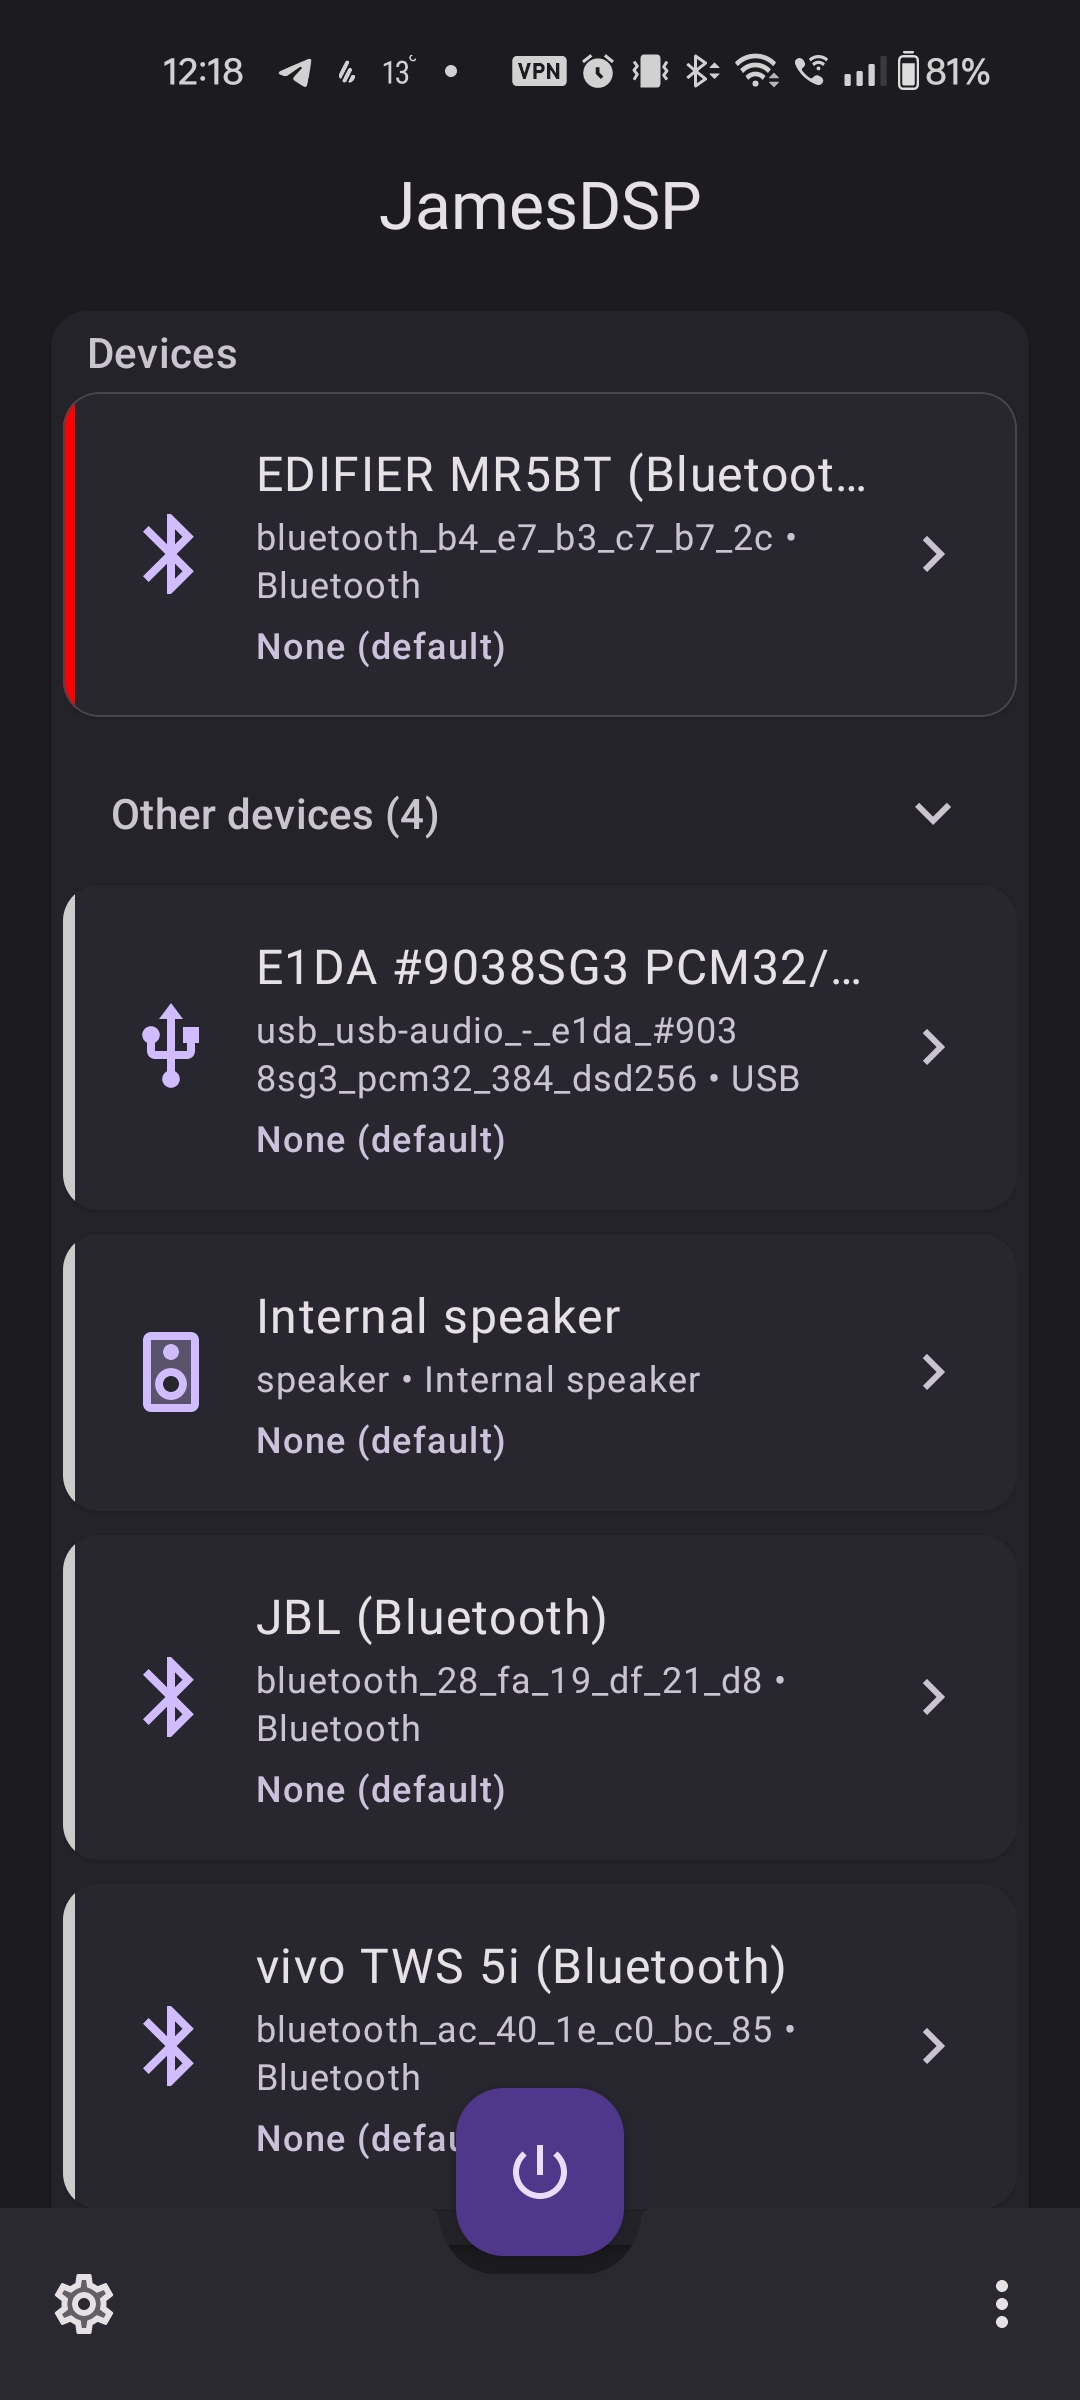
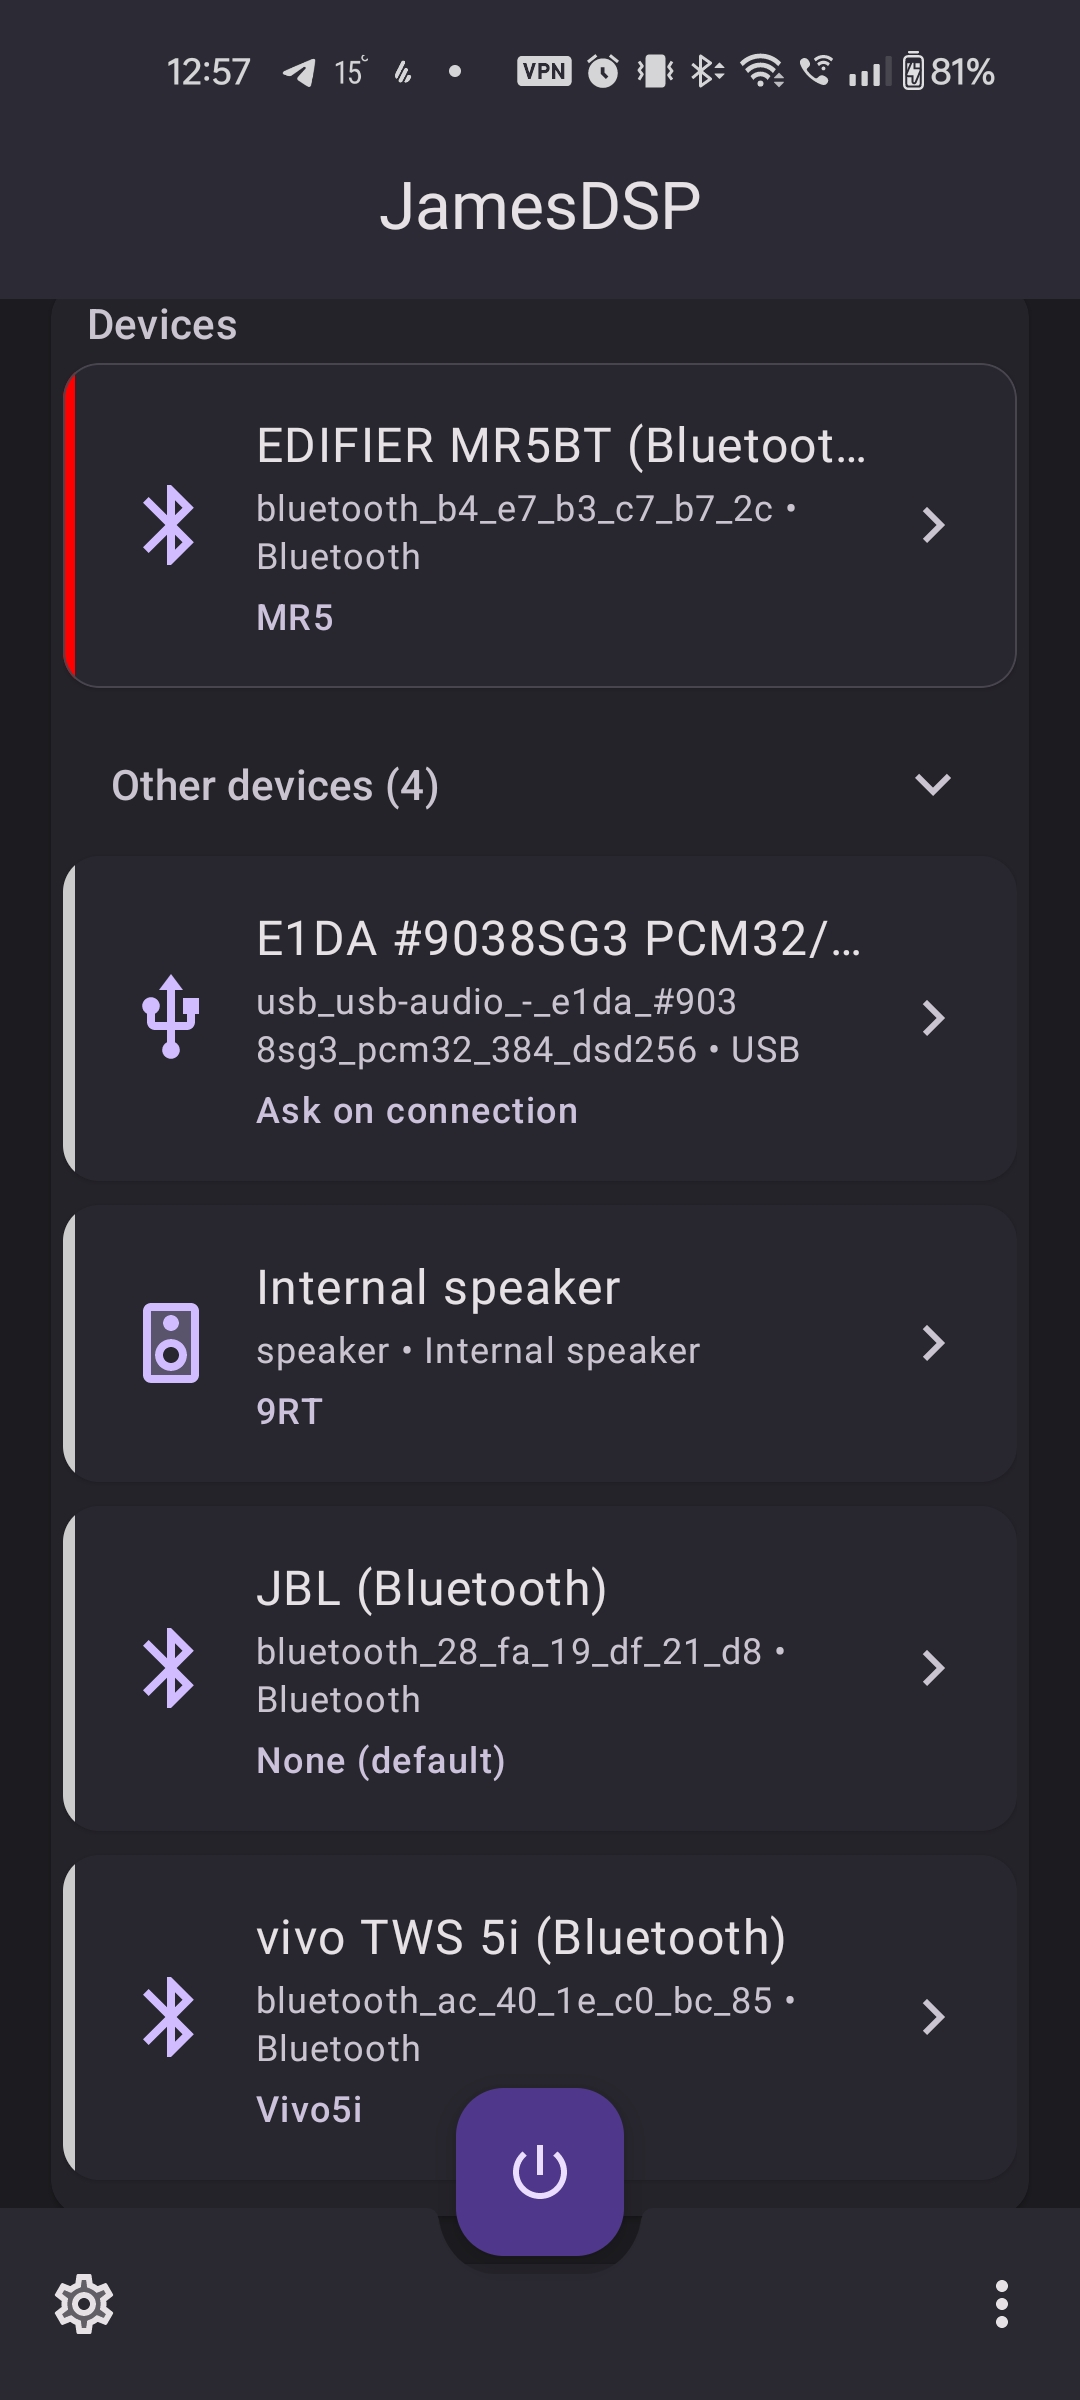
docs: update Device-Preset-Selector screenshot, add ask-on-connection screenshot

diff --git a/README.md b/README.md
@@ -38,8 +38,9 @@
   <img alt="Loudness Manual SPL" width="200" src="img/loudness_manual.jpg">
   <img alt="MEOW" width="200" src="img/MEOW.jpg">
   <img alt="Device Preset Selector" width="200" src="img/Device-Preset-Selector.jpg">
+  <img alt="Ask on Connection" width="200" src="img/ask-on-connection.jpg">
 </p>
-<p align="center"><sub>Parametric EQ · Loudness Correction · Manual SPL Calibration · MEOW Wizard · Device Preset Selector</sub></p>
+<p align="center"><sub>Parametric EQ · Loudness Correction · Manual SPL Calibration · MEOW Wizard · Device Preset Selector · Ask on Connection</sub></p>
 
 ---
 
